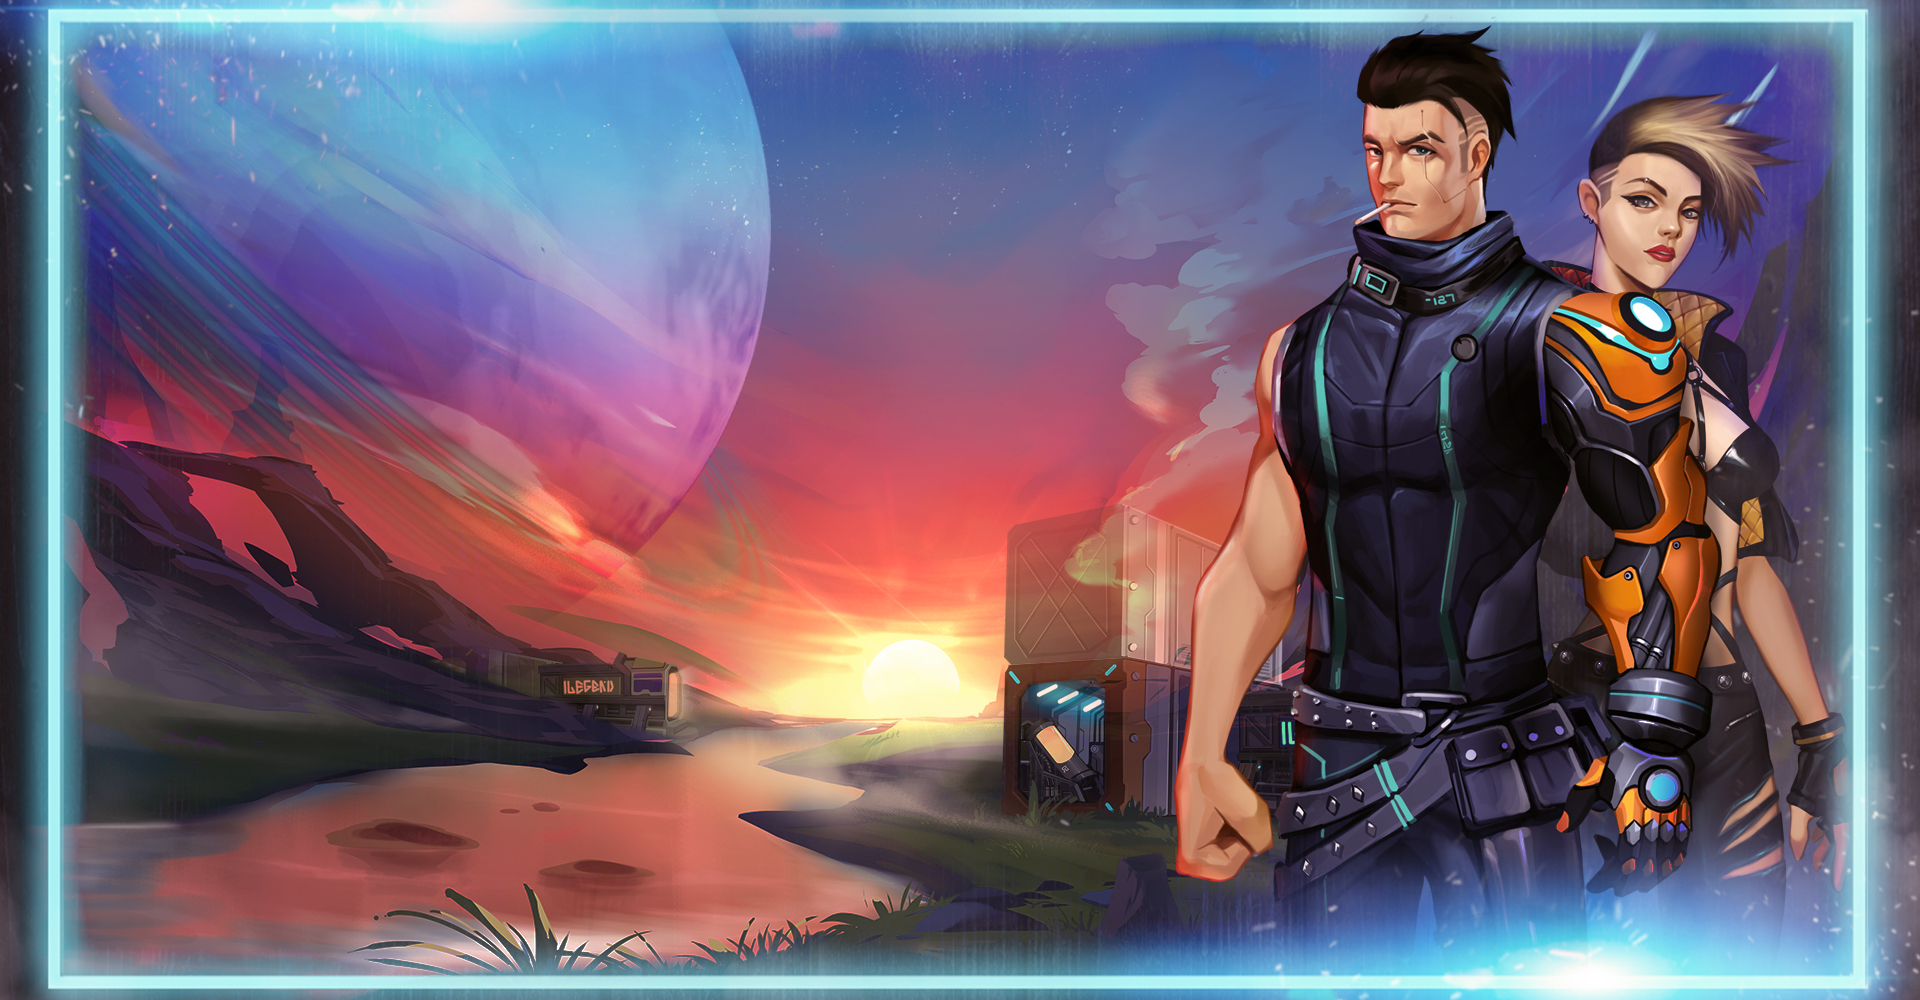
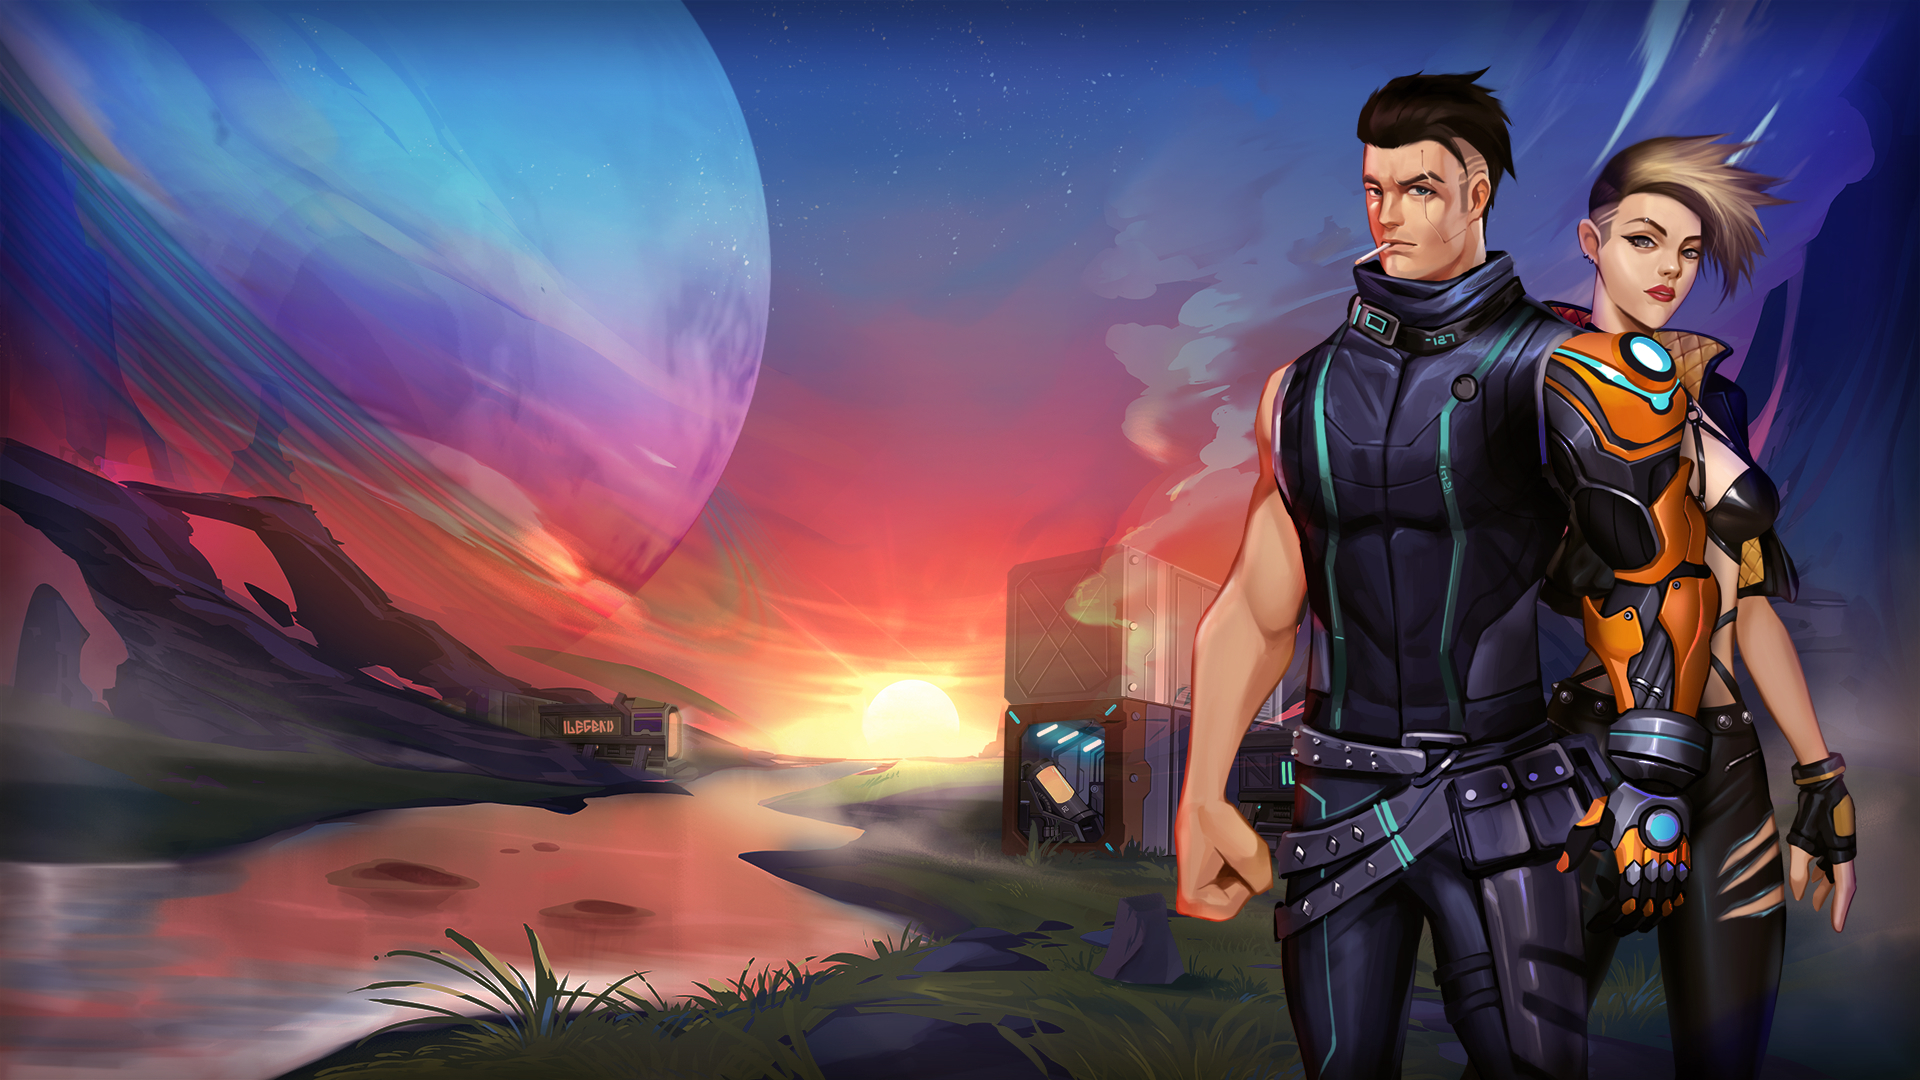
update

diff --git a/src/sections/Popup/popup.style.js b/src/sections/Popup/popup.style.js
@@ -31,7 +31,7 @@ const PopupWrapper = styled.div`
         }
 
         .loot-box{
-            width: 74.464%;
+           width: 74.464%;
            position: absolute;
            left: 55%;
            top: 65%;
@@ -42,6 +42,8 @@ const PopupWrapper = styled.div`
             position: absolute;
             bottom: 30px;
             left: 50%;
+            width: 100%;
+            text-align: center;
             transform: translateX(-50%);
             p{
                 font-size: 24px;
@@ -69,6 +71,56 @@ const PopupWrapper = styled.div`
             height: unset;
             svg{
                 font-size: 40px;
+            }
+        }
+    }
+
+    @media only screen and (max-width: 620px){
+        .popup{
+            width: 500px;
+            height: 85vh;
+            .loot-box{
+                top: 75%;
+                top: 65%;
+            transform: translate(-55%, -75%);
+            }
+        }
+    }
+
+    @media only screen and (max-width: 530px){
+        .popup{
+            width: 420px;
+            height: 85vh;
+            .loot-box{
+                top: 80%;
+                top: 65%;
+            transform: translate(-55%, -80%);
+            }
+
+            .btn-close{
+                right: -20px;
+                svg{
+                    font-size: 30px;
+                }
+            }
+        }
+    }
+
+    @media only screen and (max-width: 425px){
+        .popup{
+            width: 340px;
+            height: 75vh;
+            .loot-box{
+                top: 80%;
+                top: 65%;
+            transform: translate(-55%, -80%);
+            }
+
+            .btn-close{
+                right: -30px;
+                svg{
+                    font-size: 35px;
+                }
             }
         }
     }

diff --git a/src/sections/HeadingBanner/heading.style.js b/src/sections/HeadingBanner/heading.style.js
@@ -18,7 +18,7 @@ const HeadingWrapper = styled.div`
             height: 100%;
             background-repeat: no-repeat;
             background-size: cover;
-            background-position: top center;
+            background-position: center;
             position: relative;
             .heading-content{
                 padding: 0px 0px 0px 160px;
@@ -93,7 +93,13 @@ const HeadingWrapper = styled.div`
         }
     }
 
-    @media only screen and (max-width: 768px){
+    @media only screen and (max-width: 975px){
+        div.heading{
+            margin-top: 60px;
+        }
+    }
+
+    @media only screen and (max-width: 758px){
         div.heading{
             height: 410px!important;
             .headingBackground{
@@ -109,13 +115,19 @@ const HeadingWrapper = styled.div`
                     .register{
                         margin-top: 10px;
                         div{
-                            img{
-                                width: 100px;
-                            }
+   
                         }
                         button{
                             width: auto;
                             height: 46px;
+                            img{
+                                top: 50%;
+                                left: 50%;
+                                bottom: unset;
+                                right: unset;
+                                height: 95%;
+                                transform: translate(-50%, -50%);
+                            }
                         }
                     }
                 }
